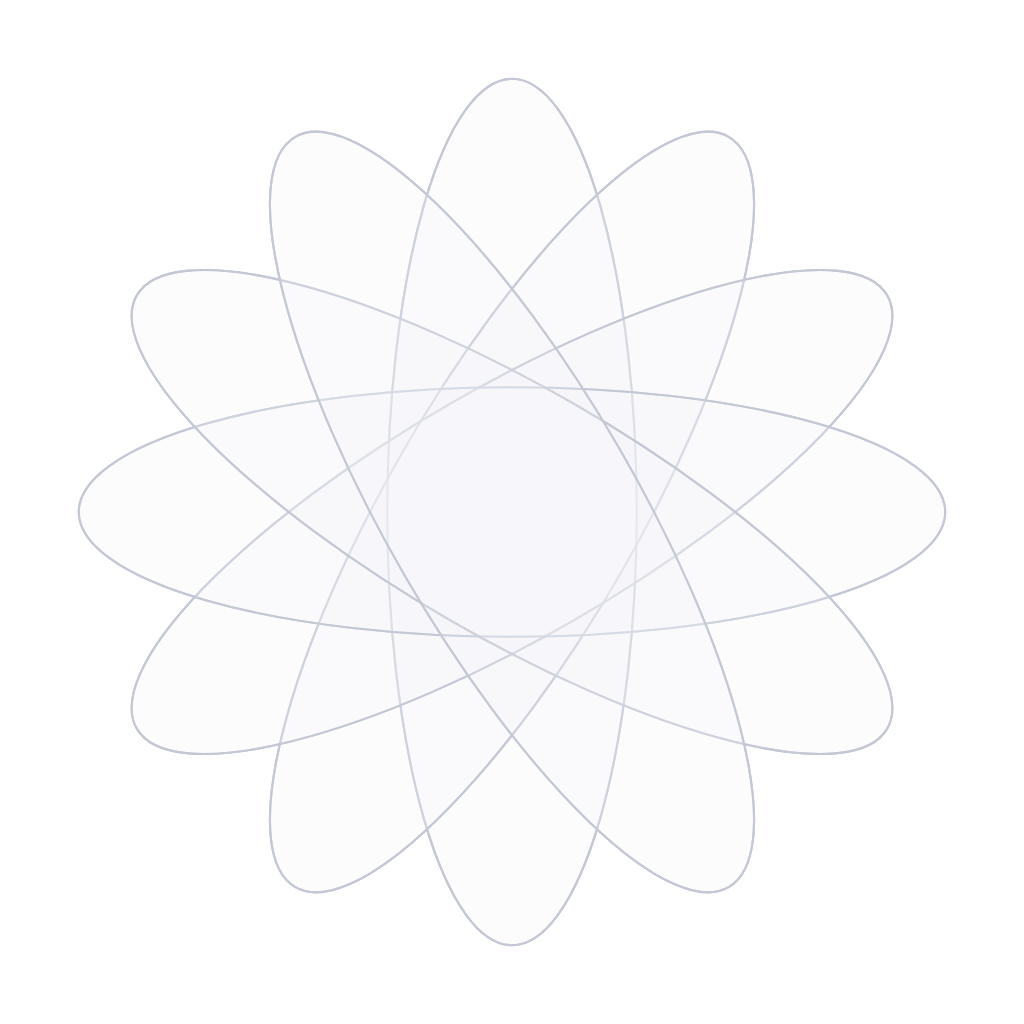
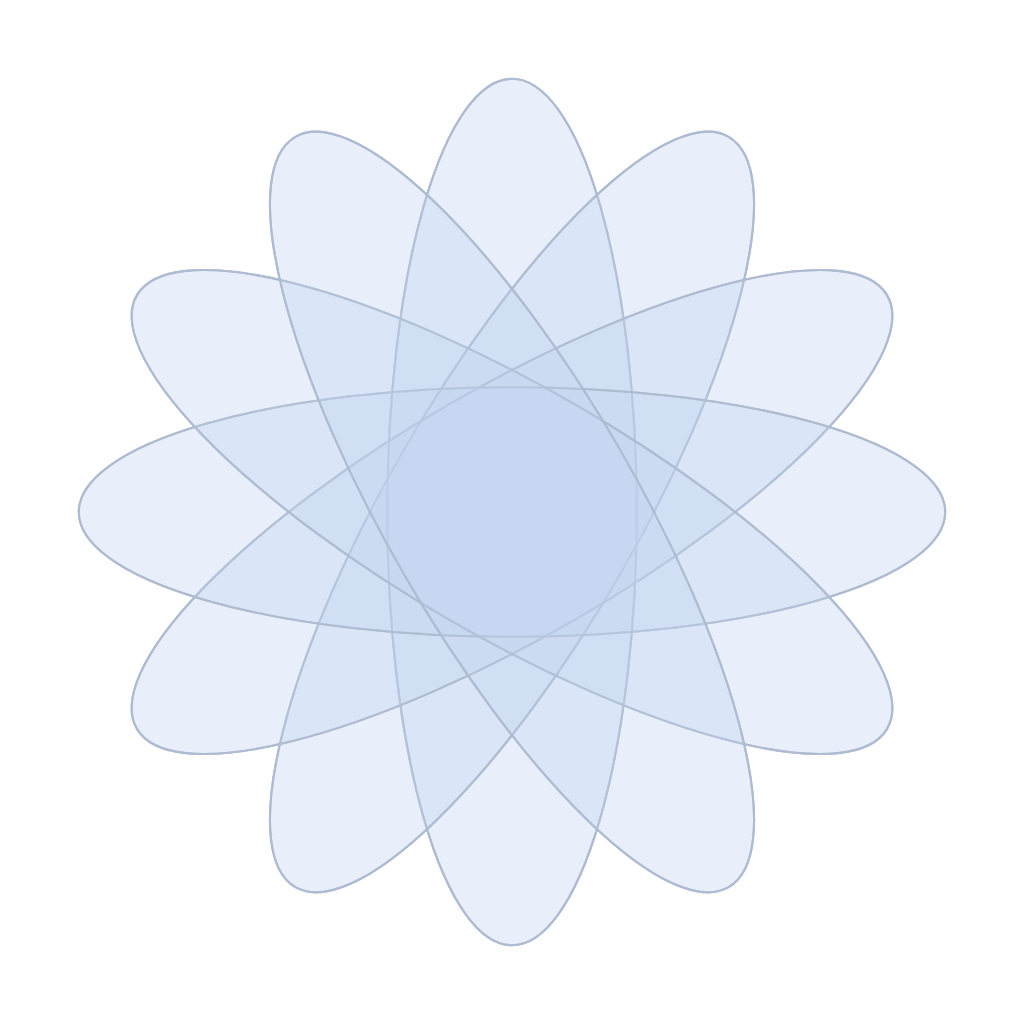
Unity battle board: the Stellari's petals in the colours the web computes on the board (a pale blue wash, blue-grey lines); the lit phase's dot in its own colour (dawn amber, day gold, dusk violet); the phase dots' white rings round their dots (they had been left in the board's middle, two white blo
Claude-Session: https://claude.ai/code/session_0164W7iE3TJ7J9aThF3PXeRU

Changed region(s): [[0.1875, 0.1875, 0.8125, 0.8125]]

diff --git a/unity/Assets/Scripts/Client/Board.cs b/unity/Assets/Scripts/Client/Board.cs
@@ -209,8 +209,9 @@ public class Board : MonoBehaviour
             phaseGlows[i].transform.localPosition = new Vector3(dotX, 0.009f, z);
             var d = Shape("Dot", table, Rgba(202, 206, 213), dot, dot, dot * 0.6f, 2990, 0.01f);
             d.transform.localPosition = new Vector3(dotX, 0.01f, z);
+            // (Its 1.5 px white ring, round the dot where it stands: it had been left at the board's middle.)
             var halo = Shape("Dot ring", table, Color.white, dot + l.U(3), dot + l.U(3), dot, 2988, 0.0095f);
-            halo.transform.SetParent(d.transform, true);
+            halo.transform.localPosition = new Vector3(dotX, 0.0095f, z);
             phaseDots[i] = d;
             dotScale = d.transform.localScale;
             return t;
@@ -522,7 +523,7 @@ public class Board : MonoBehaviour
         SetName(myLabel, me.Name, true);
         var active = Game.ActivePlayer(s);
         bool mineNow = active == me;
-        // (Whose turn: the one lit dark, the other pale; the day's part lit, its dot amber, larger and glowing.)
+        // (Whose turn: the one lit dark, the other pale; the day's part lit, its dot in the phase's colour and glowing.)
         Color lit = Rgba(47, 58, 82), pale = Rgba(185, 191, 202);
         turnYou.color = mineNow ? lit : pale;
         turnThem.color = mineNow ? pale : lit;
@@ -531,9 +532,11 @@ public class Board : MonoBehaviour
         {
             bool on = new[] { "dawn", "day", "dusk" }[i] == phase;
             phases[i].color = on ? Rgba(49, 60, 84) : Rgba(161, 168, 179);
-            phaseDots[i].sharedMaterial.color = on ? Rgba(239, 161, 67) : Rgba(202, 206, 213);
-            phaseDots[i].transform.localScale = dotScale * (on ? 1.25f : 1);
-            phaseGlows[i].sharedMaterial.color = Rgba(240, 160, 64, on ? 0.79f : 0);
+            // (.phase-step.on i: each phase in its own colour, dawn amber, day gold, dusk violet, glowing; the rest grey.)
+            var pc = i == 0 ? Rgba(240, 160, 64) : i == 1 ? Rgba(232, 194, 58) : Rgba(138, 106, 208);
+            phaseDots[i].sharedMaterial.color = on ? pc : Rgba(201, 206, 216);
+            phaseDots[i].transform.localScale = dotScale;
+            phaseGlows[i].sharedMaterial.color = new Color(pc.r, pc.g, pc.b, on ? 0.8f : 0);
         }
         // The round, and regional stability's ticks: one drains each round; gone, the track reddens and every sun
         // takes the round's heat at its dawn.
